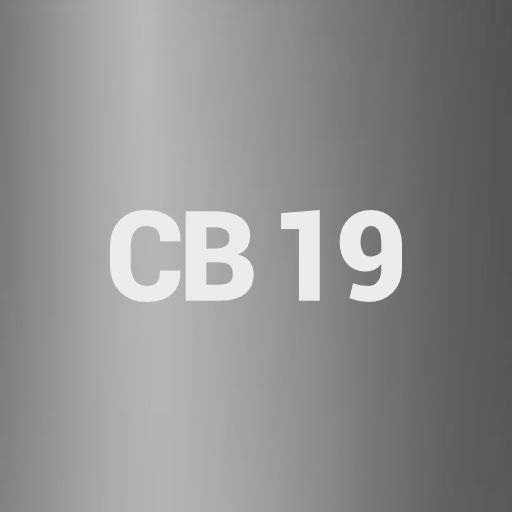
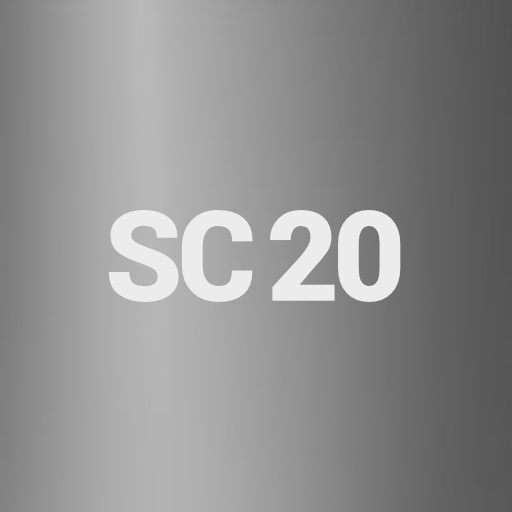
Rename repository to plugin.video.cb20 with changes to files and images

diff --git a/resources/lib/helperscript.py b/resources/lib/helperscript.py
@@ -7,7 +7,7 @@ import xbmcgui
 import xbmcaddon
 import xbmcplugin
 
-ADDON_NAME = "plugin.video.cb19"
+ADDON_NAME = "plugin.video.cb20"
 DB_FAVOURITES_FILE = "favourites-cb.db"
 DB_FAVOURITES = xbmcvfs.translatePath("special://profile/addon_data/%s/%s" % (ADDON_NAME, DB_FAVOURITES_FILE))
 DB_TEXTURES = xbmcvfs.translatePath("special://userdata/Database/Textures13.db")
@@ -49,7 +49,7 @@ def refresh_container():
             xbmc.log(ADDON_NAME + ": Cleaned up thumnails!", 1)
     except:
         pass
-    #xbmc.executebuiltin("Container.Update('plugin://plugin.video.cb19?main')")
+    #xbmc.executebuiltin("Container.Update('plugin://plugin.video.cb20?main')")
     #xbmc.executebuiltin("Container.Refresh") 
     #xbmcplugin.endOfDirectory(int(sys.argv[1]), cacheToDisc=False)
     #xbmc.executebuiltin("Container.Refresh")

diff --git a/addon.py b/addon.py
@@ -13,8 +13,8 @@ import urllib.parse
 import urllib.error
 
 # Config constants
-ADDON_NAME = "plugin.video.cb19"
-ADDON_SHORTNAME = "CB19"
+ADDON_NAME = "plugin.video.cb20"
+ADDON_SHORTNAME = "CB20"
 BASE_DIR = os.path.dirname(__file__)
 DB_FAVOURITES_FILE = "favourites-cb.db"
 DB_FAVOURITES = xbmcvfs.translatePath("special://profile/addon_data/%s/%s" % (ADDON_NAME, DB_FAVOURITES_FILE))
